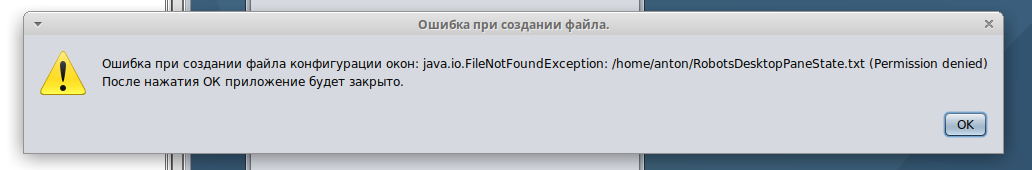
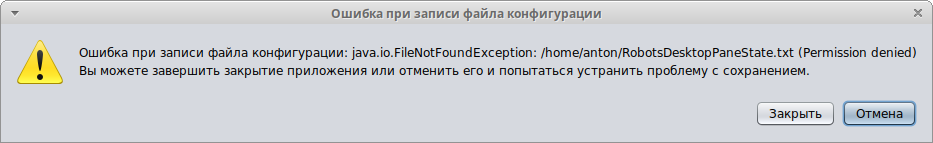
Small UX improvement in error messages
Сообщения об ошибках лучше сформулированы, и теперь юзер может прекратить закрытие приложения, если файл конфига не может сохраниться. Также изменены скриншоты для README.

Changed region(s): [[0.0, 0.0, 1.0, 1.0]]

diff --git a/robots/src/gui/MainApplicationFrame.java b/robots/src/gui/MainApplicationFrame.java
@@ -19,7 +19,7 @@ public class MainApplicationFrame extends JFrame
     {
         super("Робот");
         int inset = 50;
-        Dimension screenSize = new Dimension(500, 500); //Toolkit.getDefaultToolkit().getScreenSize();
+        Dimension screenSize = Toolkit.getDefaultToolkit().getScreenSize();
         setBounds(inset, inset,
             screenSize.width  - inset*2,
             screenSize.height - inset*2);
@@ -50,12 +50,11 @@ public class MainApplicationFrame extends JFrame
             var frameStates = DesktopPaneState.ReadFromFile(desktopPane);
             DesktopPaneState.ModifyDesktopPaneState(desktopPane, frameStates);
         }
-        catch (FileNotFoundException ignored) {}
         catch (IOException e)
         {
             JOptionPane.showMessageDialog(null,
-                    "Ошибка при чтении файла конфигурации окон: " + e + "\nПосле нажатия ОК вы сможете продолжить работу.",
-                    "Ошибка при чтении файла.",
+                    "Ошибка при чтении файла конфигурации: " + e + "\nПосле нажатия ОК вы сможете продолжить работу. Будет загружена конфигурация по умолчанию.",
+                    "Ошибка при чтении файла конфигурации",
                     JOptionPane.WARNING_MESSAGE);
         }
     }
@@ -77,19 +76,43 @@ public class MainApplicationFrame extends JFrame
                 break;
             case 1:     //exit
             {
+                var shouldExit = true;
                 try
                 {
                     DesktopPaneState.WriteToFile(desktopPane);
-                } catch (IOException e)
-                {
-                    JOptionPane.showMessageDialog(null,
-                        "Ошибка при записи файла конфигурации окон: " + e + "\nПосле нажатия ОК приложение будет закрыто.",
-                        "Ошибка при записи файла.",
-                        JOptionPane.WARNING_MESSAGE);
                 }
-                System.exit(0);
+                catch (IOException e)
+                {
+                    shouldExit = askAboutClosingAfterConfigWriteFailure(e);
+                }
+                if (shouldExit)
+                    System.exit(0);
                 break;
             }
+        }
+    }
+
+    private boolean askAboutClosingAfterConfigWriteFailure(IOException e)
+    {
+        var message = "Ошибка при записи файла конфигурации: " + e + "\nВы можете завершить закрытие приложения или отменить его и попытаться устранить проблему с сохранением.";
+
+        int userChoice = JOptionPane.showOptionDialog(null,
+                message,
+                "Ошибка при записи файла конфигурации",
+                JOptionPane.OK_CANCEL_OPTION,
+                JOptionPane.WARNING_MESSAGE,
+                null,
+                new String[] { "Отмена", "Закрыть" },
+                "Отмена");
+
+        switch (userChoice)
+        {
+            case 0:     //cancel
+                return false;
+            case 1:     //exit
+                return true;
+            default:
+                return false;
         }
     }
 
